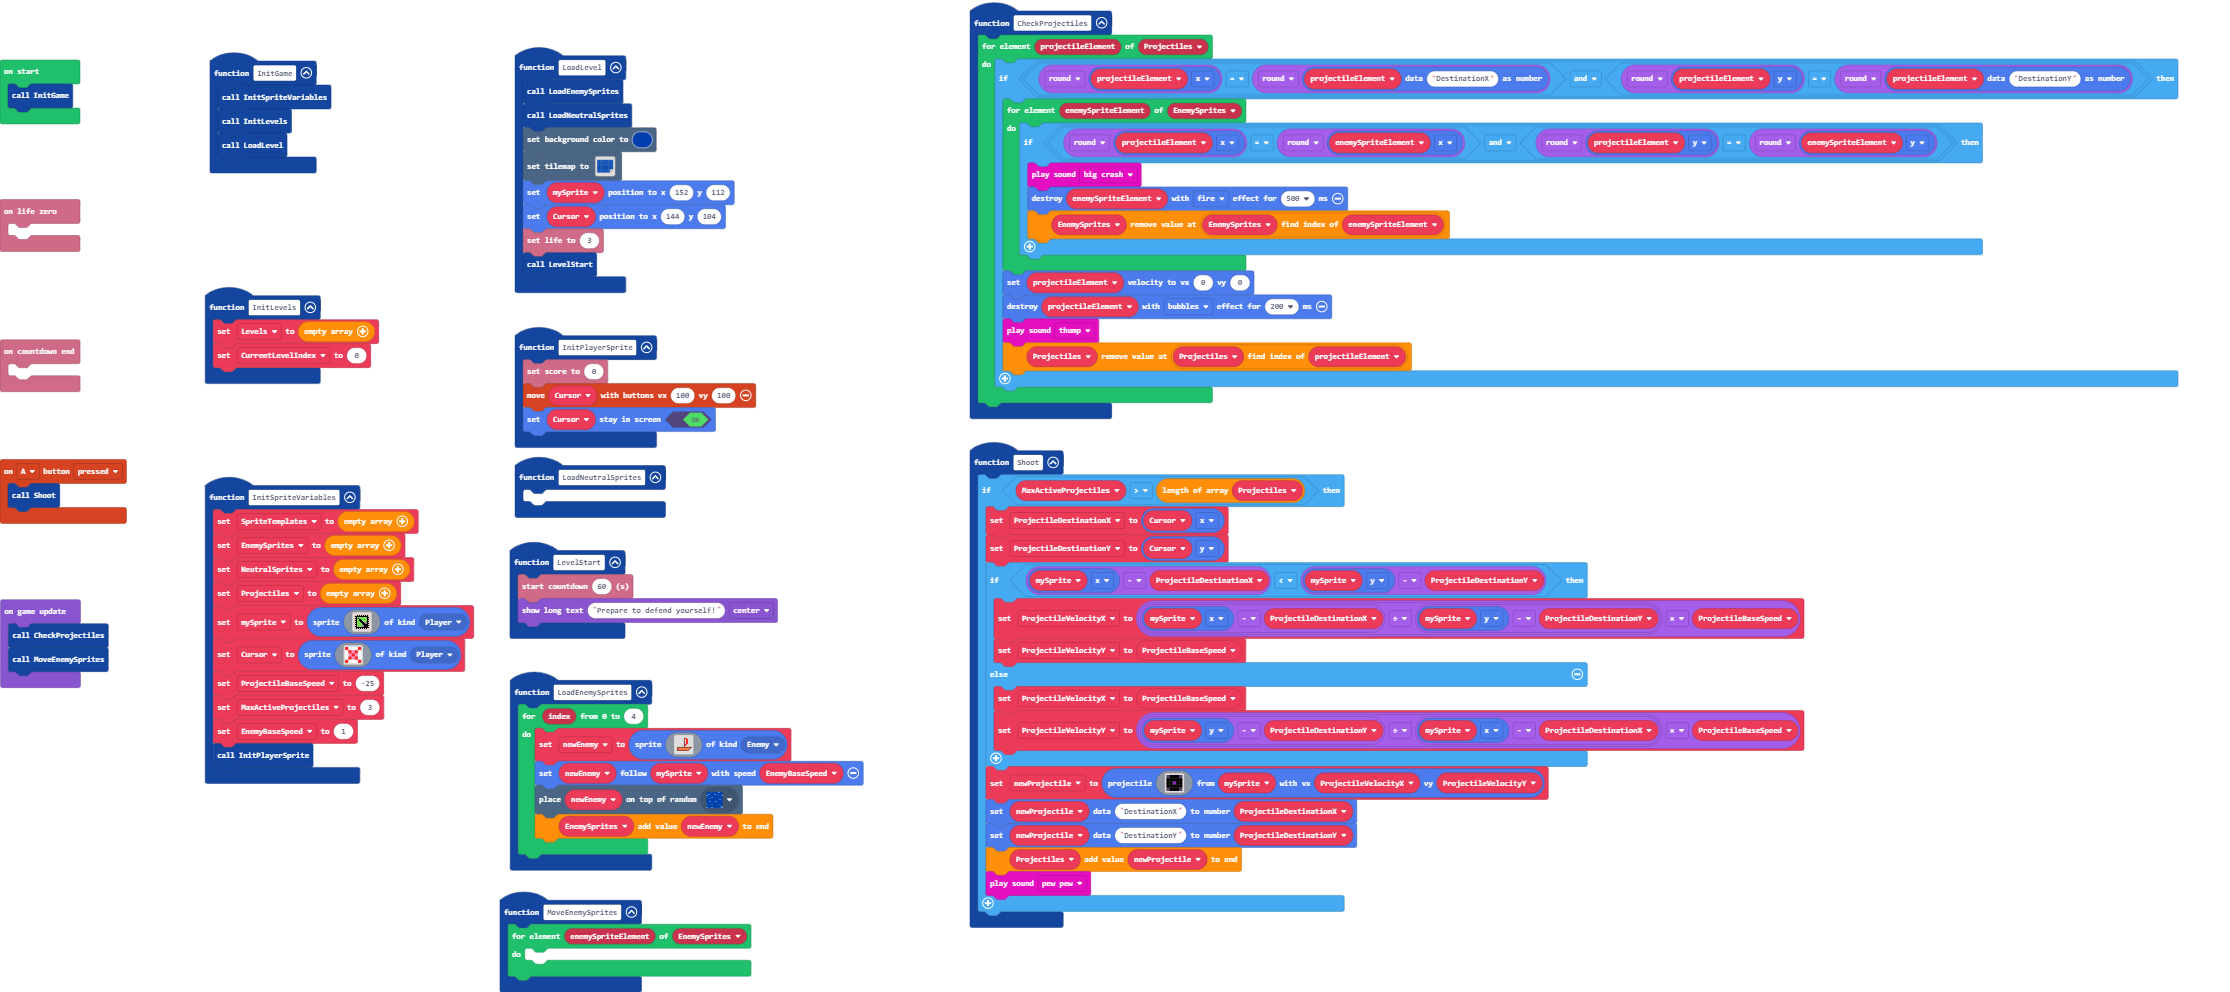
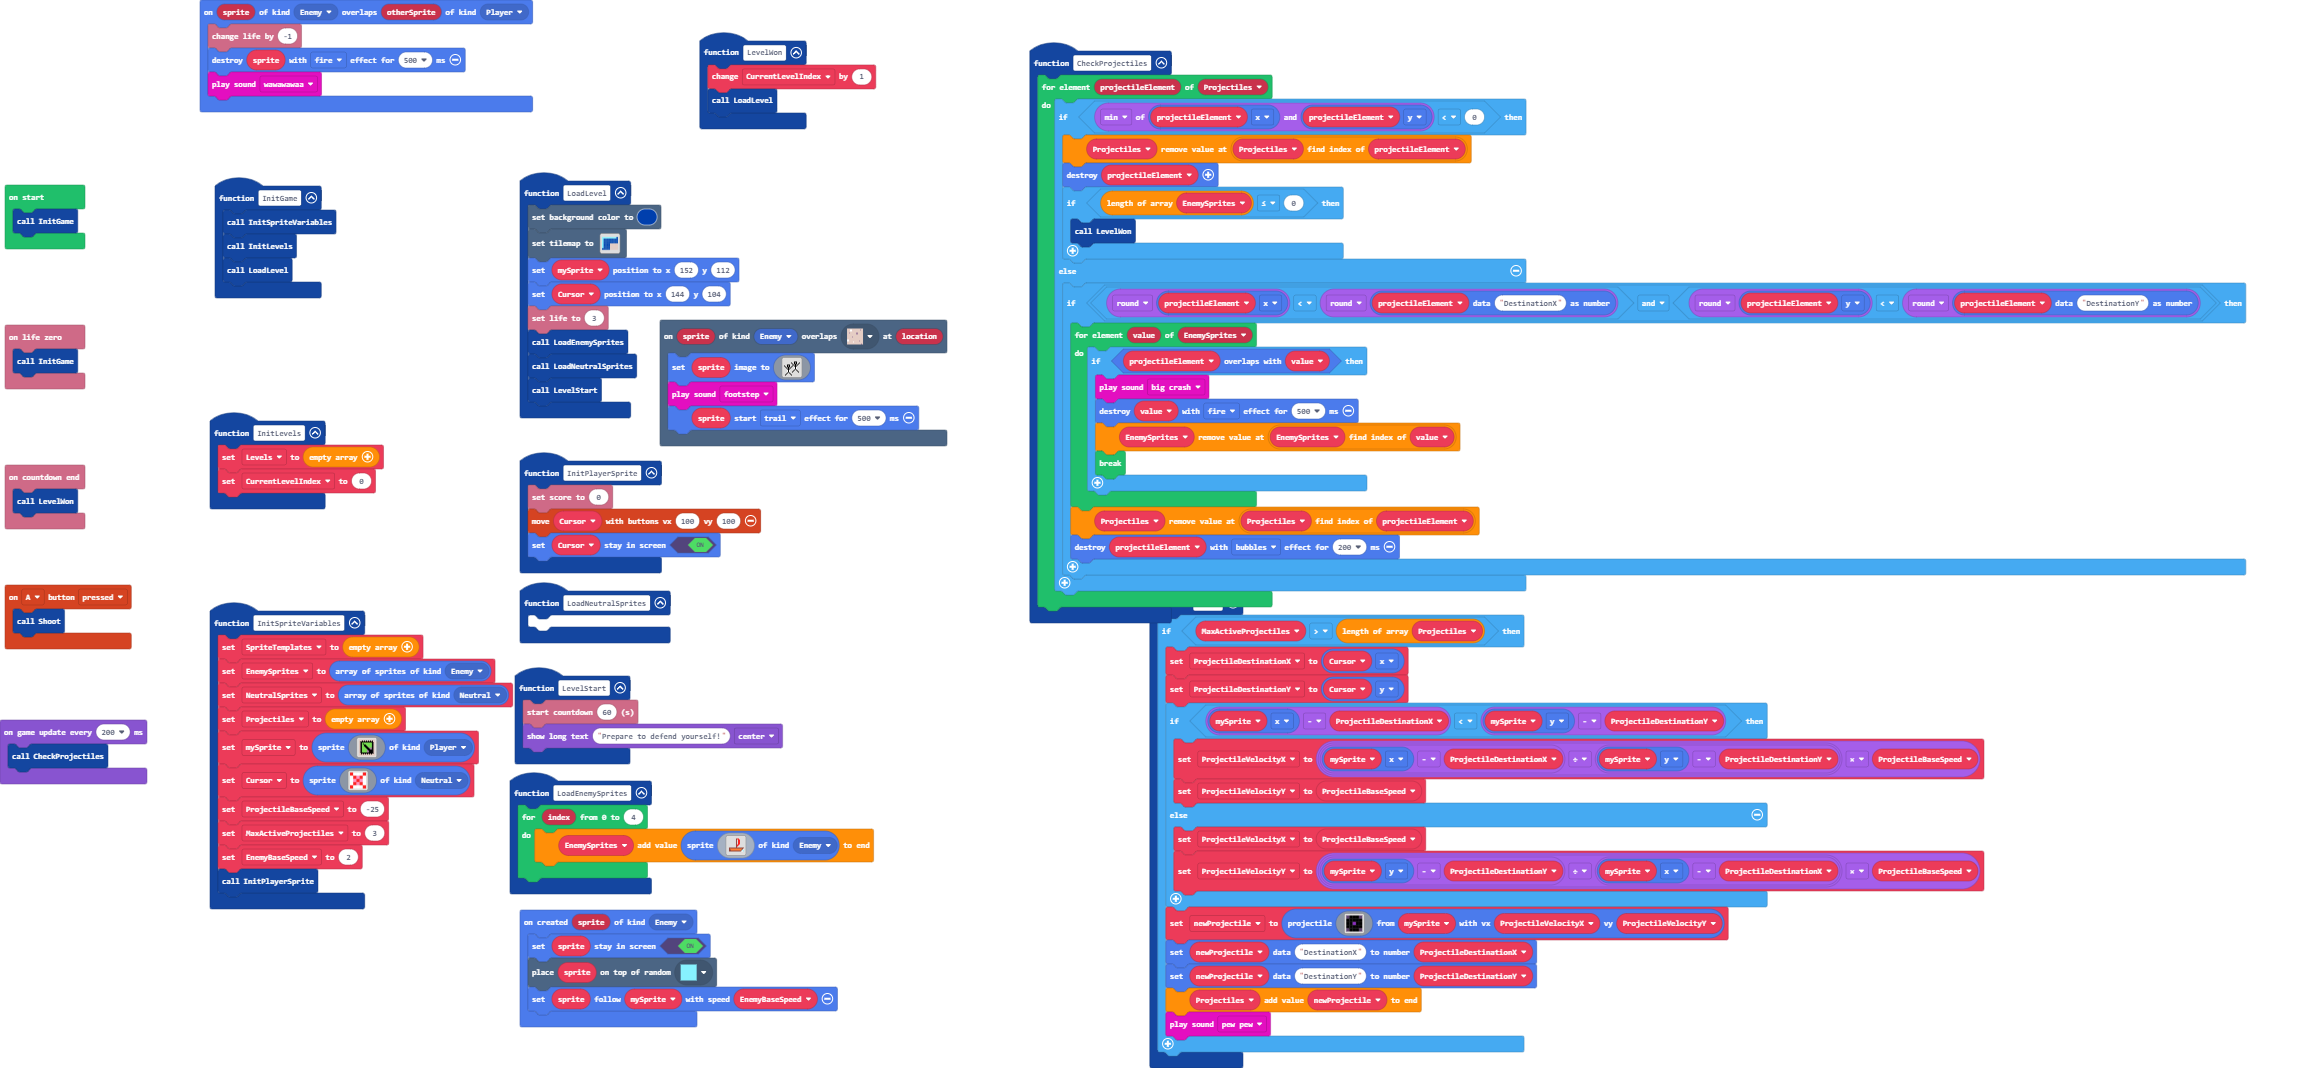
Fixed overlaps.  Fixed projectiles.  Enabeled win and loss.

diff --git a/main.ts b/main.ts
@@ -1,7 +1,15 @@
+namespace SpriteKind {
+    export const Neutral = SpriteKind.create()
+}
 function LevelStart () {
     info.startCountdown(60)
     game.showLongText("Prepare to defend yourself!", DialogLayout.Center)
 }
+sprites.onCreated(SpriteKind.Enemy, function (sprite) {
+    sprite.setStayInScreen(true)
+    tiles.placeOnRandomTile(sprite, assets.tile`EnemyStartOceanTile`)
+    sprite.follow(mySprite, EnemyBaseSpeed)
+})
 function LoadNeutralSprites () {
 	
 }
@@ -11,18 +19,25 @@ function InitLevels () {
 }
 function CheckProjectiles () {
     for (let projectileElement of Projectiles) {
-        if (Math.round(projectileElement.x) == Math.round(sprites.readDataNumber(projectileElement, "DestinationX")) && Math.round(projectileElement.y) == Math.round(sprites.readDataNumber(projectileElement, "DestinationY"))) {
-            for (let enemySpriteElement of EnemySprites) {
-                if (Math.round(projectileElement.x) == Math.round(enemySpriteElement.x) && Math.round(projectileElement.y) == Math.round(enemySpriteElement.y)) {
-                    music.bigCrash.play()
-                    enemySpriteElement.destroy(effects.fire, 500)
-                    EnemySprites.removeAt(EnemySprites.indexOf(enemySpriteElement))
-                }
-            }
-            projectileElement.setVelocity(0, 0)
-            projectileElement.destroy(effects.bubbles, 200)
-            music.thump.play()
+        if (Math.min(projectileElement.x, projectileElement.y) < 0) {
             Projectiles.removeAt(Projectiles.indexOf(projectileElement))
+            projectileElement.destroy()
+            if (EnemySprites.length <= 0) {
+                LevelWon()
+            }
+        } else {
+            if (Math.round(projectileElement.x) < Math.round(sprites.readDataNumber(projectileElement, "DestinationX")) && Math.round(projectileElement.y) < Math.round(sprites.readDataNumber(projectileElement, "DestinationY"))) {
+                for (let value of EnemySprites) {
+                    if (projectileElement.overlapsWith(value)) {
+                        music.bigCrash.play()
+                        value.destroy(effects.fire, 500)
+                        EnemySprites.removeAt(EnemySprites.indexOf(value))
+                        break;
+                    }
+                }
+                Projectiles.removeAt(Projectiles.indexOf(projectileElement))
+                projectileElement.destroy(effects.bubbles, 200)
+            }
         }
     }
 }
@@ -30,18 +45,18 @@ controller.A.onEvent(ControllerButtonEvent.Pressed, function () {
     Shoot()
 })
 function LoadLevel () {
-    LoadEnemySprites()
-    LoadNeutralSprites()
     scene.setBackgroundColor(8)
     tiles.setTilemap(tilemap`level1`)
     mySprite.setPosition(152, 112)
     Cursor.setPosition(144, 104)
     info.setLife(3)
+    LoadEnemySprites()
+    LoadNeutralSprites()
     LevelStart()
 }
 function LoadEnemySprites () {
     for (let index = 0; index <= 4; index++) {
-        newEnemy = sprites.create(img`
+        EnemySprites.push(sprites.create(img`
             . . . . . . . . . . . . . . . . 
             . . . . . . . . e 2 2 . . . . . 
             . . . . . . . . e . 2 2 . . . . 
@@ -58,14 +73,11 @@ function LoadEnemySprites () {
             . e e e e e e e e e e e e . 1 9 
             . . . . . . . . . . . . . . . . 
             . . . . . . . . . . . . . . . . 
-            `, SpriteKind.Enemy)
-        newEnemy.follow(mySprite, EnemyBaseSpeed)
-        tiles.placeOnRandomTile(newEnemy, assets.tile`myTile`)
-        EnemySprites.push(newEnemy)
+            `, SpriteKind.Enemy))
     }
 }
 info.onCountdownEnd(function () {
-	
+    LevelWon()
 })
 function Shoot () {
     if (MaxActiveProjectiles > Projectiles.length) {
@@ -85,8 +97,35 @@ function Shoot () {
         music.pewPew.play()
     }
 }
+sprites.onOverlap(SpriteKind.Enemy, SpriteKind.Player, function (sprite, otherSprite) {
+    info.changeLifeBy(-1)
+    sprite.destroy(effects.fire, 500)
+    music.wawawawaa.play()
+})
+scene.onOverlapTile(SpriteKind.Enemy, sprites.castle.tilePath5, function (sprite, location) {
+    sprite.setImage(img`
+        . . . . . . . . . . . . . . . . 
+        . . . . . . . . . . . . . . . . 
+        . . . . . . . . . . f f f . . . 
+        . . . . . . . f . . f 1 f . . f 
+        . . . . . . . . f . f f f . f . 
+        . . . f f f . . . f 1 f 1 f . . 
+        f . . f 1 f . . f . f f f . . . 
+        . f . f f f . f . . 1 f 1 . . . 
+        . . f 1 f 1 f . . . 1 f 1 . . . 
+        . . . f f f . . . . 1 f 1 . . . 
+        . . . 1 f 1 . . . . f . f . . . 
+        . . . 1 f 1 . . . f . . . f . . 
+        . . . 1 f 1 . . f . . . . . f . 
+        . . . f . f . . . . . . . . . . 
+        . . f . . . f . . . . . . . . . 
+        . f . . . . . f . . . . . . . . 
+        `)
+    music.footstep.play()
+    sprite.startEffect(effects.trail, 500)
+})
 info.onLifeZero(function () {
-	
+    InitGame()
 })
 function InitPlayerSprite () {
     info.setScore(0)
@@ -98,24 +137,23 @@ function InitGame () {
     InitLevels()
     LoadLevel()
 }
-function MoveEnemySprites () {
-    for (let enemySpriteElement of EnemySprites) {
-    	
-    }
-}
 function InitSpriteVariables () {
     SpriteTemplates = []
-    EnemySprites = []
-    NeutralSprites = []
+    EnemySprites = sprites.allOfKind(SpriteKind.Enemy)
+    NeutralSprites = sprites.allOfKind(SpriteKind.Neutral)
     Projectiles = []
     mySprite = sprites.create(assets.image`Base`, SpriteKind.Player)
-    Cursor = sprites.create(assets.image`Crosshair`, SpriteKind.Player)
+    Cursor = sprites.create(assets.image`Crosshair`, SpriteKind.Neutral)
     ProjectileBaseSpeed = -25
     MaxActiveProjectiles = 3
-    EnemyBaseSpeed = 1
+    EnemyBaseSpeed = 2
     InitPlayerSprite()
 }
-let NeutralSprites: number[] = []
+function LevelWon () {
+    CurrentLevelIndex += 1
+    LoadLevel()
+}
+let NeutralSprites: Sprite[] = []
 let SpriteTemplates: number[] = []
 let newProjectile: Sprite = null
 let ProjectileVelocityY = 0
@@ -124,16 +162,14 @@ let ProjectileVelocityX = 0
 let ProjectileDestinationY = 0
 let ProjectileDestinationX = 0
 let MaxActiveProjectiles = 0
-let EnemyBaseSpeed = 0
-let newEnemy: Sprite = null
 let Cursor: Sprite = null
-let mySprite: Sprite = null
 let EnemySprites: Sprite[] = []
 let Projectiles: Sprite[] = []
 let CurrentLevelIndex = 0
 let Levels: number[] = []
+let EnemyBaseSpeed = 0
+let mySprite: Sprite = null
 InitGame()
-game.onUpdate(function () {
+game.onUpdateInterval(200, function () {
     CheckProjectiles()
-    MoveEnemySprites()
 })

diff --git a/tilemap.g.ts b/tilemap.g.ts
@@ -4,11 +4,13 @@ namespace myTiles {
     export const transparency16 = image.ofBuffer(hex``);
     //% fixedInstance jres blockIdentity=images._tile
     export const tile1 = image.ofBuffer(hex``);
+    //% fixedInstance jres blockIdentity=images._tile
+    export const tile2 = image.ofBuffer(hex``);
 
     helpers._registerFactory("tilemap", function(name: string) {
         switch(helpers.stringTrim(name)) {
             case "level1":
[2 lines of base64/hex data omitted]
 . . . . . . . . . . 
 . . . . . . . . . . 
 . . . . . . . . . . 
@@ -17,7 +19,7 @@ namespace myTiles {
 . . . . . . . . . . 
 . . . . . . . . . . 
 . . . . . . . . . . 
-`, [myTiles.transparency16,myTiles.tile1,sprites.castle.tilePath4,sprites.castle.tilePath1,sprites.castle.tilePath2,sprites.castle.tilePath5], TileScale.Sixteen);
+`, [myTiles.transparency16,myTiles.tile1,sprites.castle.tilePath5,myTiles.tile2], TileScale.Sixteen);
         }
         return null;
     })
@@ -27,6 +29,8 @@ namespace myTiles {
             case "transparency16":return transparency16;
             case "myTile":
             case "tile1":return tile1;
+            case "EnemyStartOceanTile":
+            case "tile2":return tile2;
         }
         return null;
     })
